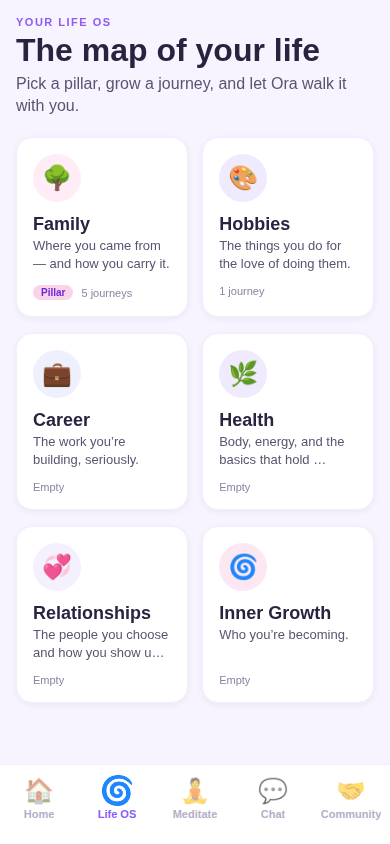
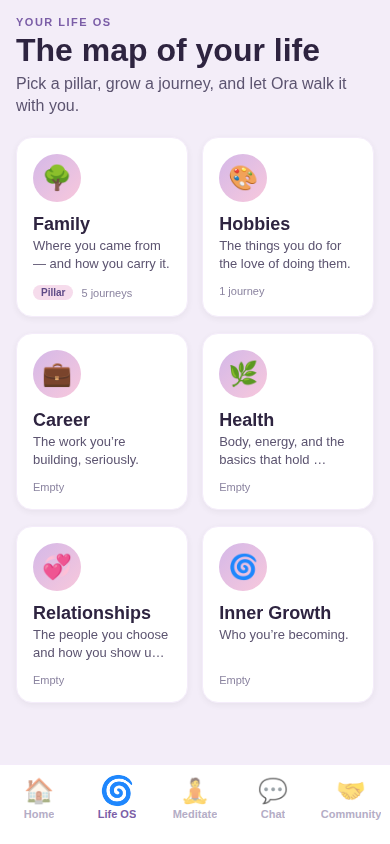
Match real app: muted purple + lavender-to-pink gradients (v3)

diff --git a/index.html b/index.html
@@ -110,7 +110,7 @@ const SHOTS={
 };
 const PLACEHOLDERS=['Hero / onboarding','Life OS','Topic Cloud','Practice / voice','Community','Progress'];
 
-const V='?v=2';  // bump to bust browser cache when screenshots change
+const V='?v=3';  // bump to bust browser cache when screenshots change
 function card(n,src,t,d){
   return `<div class="card" onclick="zoom('${src}${V}')">
     <div class="shot"><img loading="lazy" src="${src}${V}" alt="${t}"/></div>
